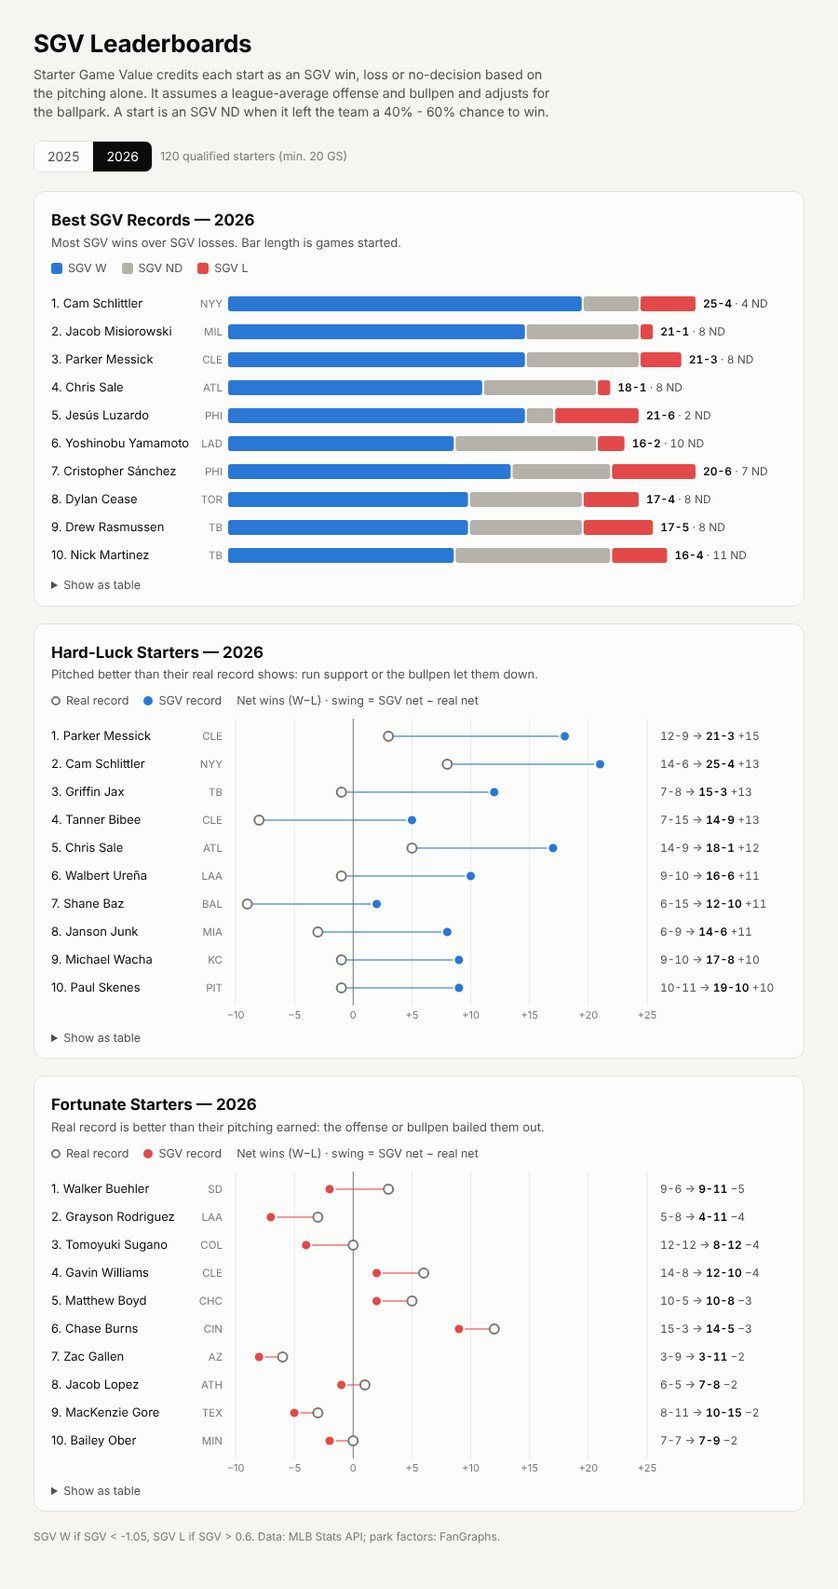
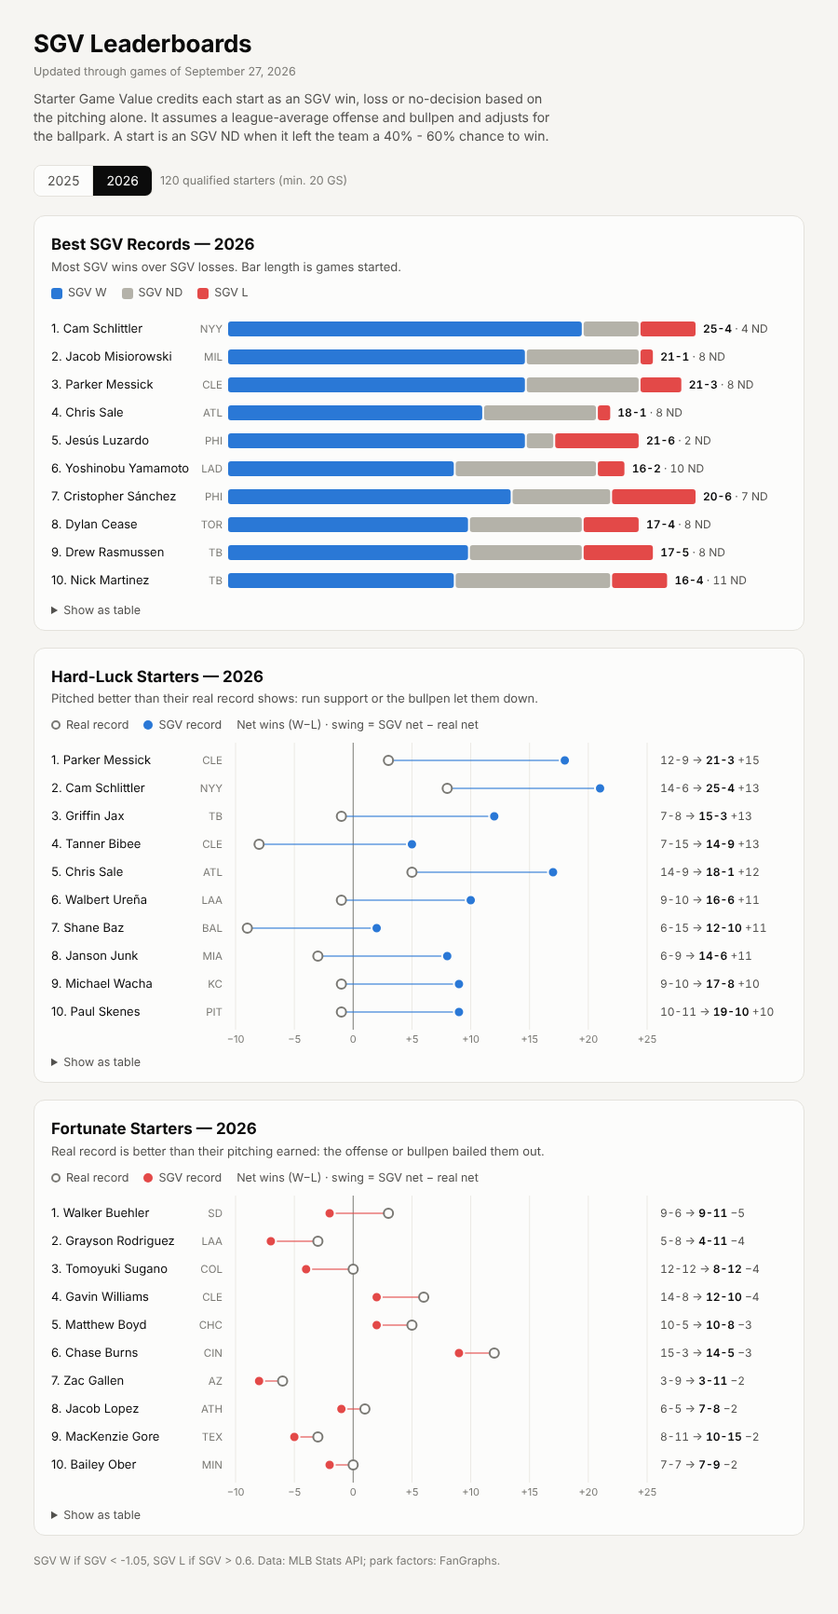
Make SGV live: daily GitHub workflow, Pages leaderboard, park factor carry-forward
- New season rows in park_factors.csv reuse the previous season's value for
  known ballparks (flagged "carried from ... - check FanGraphs"); only a
  brand-new ballpark blocks the run
- sgv.py exits with code 1 when park factors are missing, so a scheduled
  run shows as failed
- Box scores are cached trimmed to the fields SGV uses (~2 KB per game
  instead of ~180 KB; results unchanged)
- .github/workflows/sgv-daily.yml: every morning March-October, scores
  2025 to the current season, commits the results when there are new
  games and publishes the leaderboards on GitHub Pages
- Report shows the date of the last game included
- README: live leaderboard setup and yearly checklist

Claude-Session: https://claude.ai/code/session_01Pti2RQ9g86KiqQdCGobK9s

diff --git a/sgv_report.html b/sgv_report.html
@@ -29,7 +29,8 @@
 body { margin: 0; background: var(--surface-0); color: var(--text-primary);
        font: 14px/1.45 system-ui, -apple-system, "Segoe UI", Roboto, sans-serif; }
 main { max-width: 860px; margin: 0 auto; padding: 28px 16px 48px; }
-h1 { font-size: 26px; margin: 0 0 4px; letter-spacing: -0.01em; }
+h1 { font-size: 26px; margin: 0 0 2px; letter-spacing: -0.01em; }
+#through { margin: 0 0 10px; }
 .lede { color: var(--text-secondary); margin: 0 0 20px; max-width: 64ch; }
 .controls { display: flex; gap: 8px; align-items: center; margin-bottom: 20px; flex-wrap: wrap; }
 .seg { display: inline-flex; border: 1px solid var(--border); border-radius: 8px; overflow: hidden; }
@@ -76,6 +77,7 @@ footer { color: var(--text-muted); font-size: 12px; margin-top: 8px; }
 <body>
 <main>
   <h1>SGV Leaderboards</h1>
+  <p class="note" id="through"></p>
   <p class="lede">Starter Game Value credits each start as an SGV win, loss or no-decision based on the
   pitching alone. It assumes a league-average offense and bullpen and adjusts for the ballpark.
   A start is an SGV ND when it left the team a 40% - 60% chance to win.</p>
@@ -89,7 +91,7 @@ footer { color: var(--text-muted); font-size: 12px; margin-top: 8px; }
 <div id="tip" role="tooltip"></div>
 <script>
 const DATA = [{"season": 2025, "qualifier": 20, "qualified": 117, "best": [{"name": "Paul Skenes", "team": "PIT", "gs": 32, "sgv": [22, 5, 5], "act": [10, 10, 12], "avg": -1.66, "swing": 17}, {"name": "Cristopher S\u00e1nchez", "team": "PHI", "gs": 32, "sgv": [22, 5, 5], "act": [13, 5, 14], "avg": -1.42, "swing": 9}, {"name": "Garrett Crochet", "team": "BOS", "gs": 32, "sgv": [22, 5, 5], "act": [18, 5, 9], "avg": -1.35, "swing": 4}, {"name": "Hunter Brown", "team": "HOU", "gs": 31, "sgv": [21, 5, 5], "act": [12, 9, 10], "avg": -1.31, "swing": 13}, {"name": "Tarik Skubal", "team": "DET", "gs": 31, "sgv": [19, 6, 6], "act": [13, 6, 12], "avg": -1.57, "swing": 6}, {"name": "Nathan Eovaldi", "team": "TEX", "gs": 22, "sgv": [15, 3, 4], "act": [11, 3, 8], "avg": -1.69, "swing": 4}, {"name": "Yoshinobu Yamamoto", "team": "LAD", "gs": 30, "sgv": [18, 6, 6], "act": [12, 8, 10], "avg": -1.23, "swing": 8}, {"name": "Max Fried", "team": "NYY", "gs": 32, "sgv": [19, 8, 5], "act": [19, 5, 8], "avg": -1.07, "swing": -3}, {"name": "Logan Webb", "team": "SF", "gs": 34, "sgv": [18, 7, 9], "act": [15, 11, 8], "avg": -0.75, "swing": 7}, {"name": "Zack Wheeler", "team": "PHI", "gs": 24, "sgv": [15, 5, 4], "act": [10, 5, 9], "avg": -1.25, "swing": 5}], "hardLuck": [{"name": "Paul Skenes", "team": "PIT", "gs": 32, "sgv": [22, 5, 5], "act": [10, 10, 12], "avg": -1.66, "swing": 17}, {"name": "Hunter Brown", "team": "HOU", "gs": 31, "sgv": [21, 5, 5], "act": [12, 9, 10], "avg": -1.31, "swing": 13}, {"name": "MacKenzie Gore", "team": "WSH", "gs": 30, "sgv": [11, 8, 11], "act": [5, 15, 10], "avg": -0.14, "swing": 13}, {"name": "Mitch Keller", "team": "PIT", "gs": 32, "sgv": [11, 8, 13], "act": [6, 15, 11], "avg": -0.2, "swing": 12}, {"name": "Cristopher S\u00e1nchez", "team": "PHI", "gs": 32, "sgv": [22, 5, 5], "act": [13, 5, 14], "avg": -1.42, "swing": 9}, {"name": "Chad Patrick", "team": "MIL", "gs": 23, "sgv": [9, 5, 9], "act": [3, 8, 12], "avg": -0.45, "swing": 9}, {"name": "Michael Wacha", "team": "KC", "gs": 31, "sgv": [14, 8, 9], "act": [10, 13, 8], "avg": -0.41, "swing": 9}, {"name": "Kyle Freeland", "team": "COL", "gs": 31, "sgv": [8, 11, 12], "act": [5, 17, 9], "avg": 0.1, "swing": 9}, {"name": "Yoshinobu Yamamoto", "team": "LAD", "gs": 30, "sgv": [18, 6, 6], "act": [12, 8, 10], "avg": -1.23, "swing": 8}, {"name": "Noah Cameron", "team": "KC", "gs": 24, "sgv": [15, 5, 4], "act": [9, 7, 8], "avg": -0.96, "swing": 8}], "fortunate": [{"name": "Charlie Morton", "team": "BAL/DET/ATL", "gs": 27, "sgv": [6, 14, 7], "act": [9, 10, 8], "avg": 0.88, "swing": -7}, {"name": "Brandon Pfaadt", "team": "AZ", "gs": 33, "sgv": [9, 12, 12], "act": [13, 9, 11], "avg": 0.49, "swing": -7}, {"name": "Jake Irvin", "team": "WSH", "gs": 33, "sgv": [6, 16, 11], "act": [9, 13, 11], "avg": 0.76, "swing": -6}, {"name": "Sandy Alcantara", "team": "MIA", "gs": 31, "sgv": [9, 15, 7], "act": [11, 12, 8], "avg": 0.56, "swing": -5}, {"name": "Walker Buehler", "team": "BOS/PHI", "gs": 24, "sgv": [7, 10, 7], "act": [9, 7, 8], "avg": 0.3, "swing": -5}, {"name": "Clayton Kershaw", "team": "LAD", "gs": 22, "sgv": [10, 6, 6], "act": [11, 2, 9], "avg": -0.57, "swing": -5}, {"name": "Sonny Gray", "team": "STL", "gs": 32, "sgv": [12, 10, 10], "act": [14, 8, 10], "avg": -0.01, "swing": -4}, {"name": "Tanner Bibee", "team": "CLE", "gs": 31, "sgv": [10, 13, 8], "act": [12, 11, 8], "avg": -0.11, "swing": -4}, {"name": "Casey Mize", "team": "DET", "gs": 28, "sgv": [11, 7, 10], "act": [14, 6, 8], "avg": -0.36, "swing": -4}, {"name": "Zac Gallen", "team": "AZ", "gs": 33, "sgv": [12, 17, 4], "act": [13, 15, 5], "avg": 0.27, "swing": -3}]}, {"season": 2026, "qualifier": 20, "qualified": 120, "best": [{"name": "Cam Schlittler", "team": "NYY", "gs": 33, "sgv": [25, 4, 4], "act": [14, 6, 13], "avg": -1.62, "swing": 13}, {"name": "Jacob Misiorowski", "team": "MIL", "gs": 30, "sgv": [21, 1, 8], "act": [16, 5, 9], "avg": -1.69, "swing": 9}, {"name": "Parker Messick", "team": "CLE", "gs": 32, "sgv": [21, 3, 8], "act": [12, 9, 11], "avg": -1.23, "swing": 15}, {"name": "Chris Sale", "team": "ATL", "gs": 27, "sgv": [18, 1, 8], "act": [14, 9, 4], "avg": -1.55, "swing": 12}, {"name": "Jes\u00fas Luzardo", "team": "PHI", "gs": 29, "sgv": [21, 6, 2], "act": [14, 5, 10], "avg": -1.15, "swing": 6}, {"name": "Yoshinobu Yamamoto", "team": "LAD", "gs": 28, "sgv": [16, 2, 10], "act": [14, 9, 5], "avg": -1.36, "swing": 9}, {"name": "Cristopher S\u00e1nchez", "team": "PHI", "gs": 33, "sgv": [20, 6, 7], "act": [18, 7, 8], "avg": -1.13, "swing": 3}, {"name": "Dylan Cease", "team": "TOR", "gs": 29, "sgv": [17, 4, 8], "act": [11, 6, 12], "avg": -1.32, "swing": 8}, {"name": "Drew Rasmussen", "team": "TB", "gs": 30, "sgv": [17, 5, 8], "act": [16, 5, 9], "avg": -1.15, "swing": 1}, {"name": "Nick Martinez", "team": "TB", "gs": 31, "sgv": [16, 4, 11], "act": [15, 6, 10], "avg": -0.91, "swing": 3}], "hardLuck": [{"name": "Parker Messick", "team": "CLE", "gs": 32, "sgv": [21, 3, 8], "act": [12, 9, 11], "avg": -1.23, "swing": 15}, {"name": "Cam Schlittler", "team": "NYY", "gs": 33, "sgv": [25, 4, 4], "act": [14, 6, 13], "avg": -1.62, "swing": 13}, {"name": "Griffin Jax", "team": "TB", "gs": 23, "sgv": [15, 3, 5], "act": [7, 8, 8], "avg": -0.67, "swing": 13}, {"name": "Tanner Bibee", "team": "CLE", "gs": 33, "sgv": [14, 9, 10], "act": [7, 15, 11], "avg": -0.06, "swing": 13}, {"name": "Chris Sale", "team": "ATL", "gs": 27, "sgv": [18, 1, 8], "act": [14, 9, 4], "avg": -1.55, "swing": 12}, {"name": "Walbert Ure\u00f1a", "team": "LAA", "gs": 27, "sgv": [16, 6, 5], "act": [9, 10, 8], "avg": -0.86, "swing": 11}, {"name": "Shane Baz", "team": "BAL", "gs": 31, "sgv": [12, 10, 9], "act": [6, 15, 10], "avg": -0.18, "swing": 11}, {"name": "Janson Junk", "team": "MIA", "gs": 25, "sgv": [14, 6, 5], "act": [6, 9, 10], "avg": -0.11, "swing": 11}, {"name": "Michael Wacha", "team": "KC", "gs": 32, "sgv": [17, 8, 7], "act": [9, 10, 13], "avg": -0.87, "swing": 10}, {"name": "Paul Skenes", "team": "PIT", "gs": 32, "sgv": [19, 10, 3], "act": [10, 11, 11], "avg": -0.45, "swing": 10}], "fortunate": [{"name": "Walker Buehler", "team": "SD", "gs": 32, "sgv": [9, 11, 12], "act": [9, 6, 17], "avg": 0.2, "swing": -5}, {"name": "Grayson Rodriguez", "team": "LAA", "gs": 20, "sgv": [4, 11, 5], "act": [5, 8, 7], "avg": 0.92, "swing": -4}, {"name": "Tomoyuki Sugano", "team": "COL", "gs": 29, "sgv": [8, 12, 9], "act": [12, 12, 5], "avg": 0.28, "swing": -4}, {"name": "Gavin Williams", "team": "CLE", "gs": 32, "sgv": [12, 10, 10], "act": [14, 8, 10], "avg": -0.43, "swing": -4}, {"name": "Matthew Boyd", "team": "CHC", "gs": 22, "sgv": [10, 8, 4], "act": [10, 5, 7], "avg": -0.28, "swing": -3}, {"name": "Chase Burns", "team": "CIN", "gs": 29, "sgv": [14, 5, 10], "act": [15, 3, 11], "avg": -0.95, "swing": -3}, {"name": "Zac Gallen", "team": "AZ", "gs": 20, "sgv": [3, 11, 6], "act": [3, 9, 8], "avg": 1.03, "swing": -2}, {"name": "Jacob Lopez", "team": "ATH", "gs": 24, "sgv": [7, 8, 9], "act": [6, 5, 13], "avg": 0.37, "swing": -2}, {"name": "MacKenzie Gore", "team": "TEX", "gs": 34, "sgv": [10, 15, 9], "act": [8, 11, 15], "avg": 0.1, "swing": -2}, {"name": "Bailey Ober", "team": "MIN", "gs": 24, "sgv": [7, 9, 8], "act": [7, 7, 10], "avg": 0.08, "swing": -2}]}];
-const META = {"wCut": -1.05, "lCut": 0.6, "band": "40% - 60%"};
+const META = {"wCut": -1.05, "lCut": 0.6, "band": "40% - 60%", "through": "2026-09-27"};
 const NS = "http://www.w3.org/2000/svg";
 const ROW = 30, TOP = 8;
 let W = 760, LABEL = 190, NARROW = false;   // set from the container width in render()
@@ -270,6 +272,9 @@ DATA.forEach((d) => {
   b.addEventListener("click", () => render(d.season));
   seg.append(b);
 });
+document.getElementById("through").textContent = "Updated through games of " +
+  new Date(META.through + "T12:00:00").toLocaleDateString("en-US",
+    { month: "long", day: "numeric", year: "numeric" });
 document.getElementById("foot").textContent =
   `SGV W if SGV < ${META.wCut}, SGV L if SGV > ${META.lCut}. ` +
   "Data: MLB Stats API; park factors: FanGraphs.";

diff --git a/sgv.py b/sgv.py
@@ -37,6 +37,7 @@ Outputs: sgv_records.xlsx (records, every start, model) and sgv_report.html
 import argparse
 import csv
 import json
+import sys
 import time
 import webbrowser
 from collections import defaultdict
@@ -109,12 +110,41 @@ def fetch_final_games(season):
     return sorted(games.values(), key=lambda g: (g["date"], g["gamePk"]))
 
 
+PITCHING_FIELDS = ("outs", "inningsPitched", "earnedRuns", "runs", "gamesStarted", "wins", "losses")
+
+
+def slim_boxscore(box):
+    """Keep only what SGV uses (pitcher lines and runs): ~2 KB instead of ~180 KB per game."""
+    teams = {}
+    for side in ("home", "away"):
+        t = box["teams"][side]
+        players = {}
+        for pid in t["pitchers"]:
+            player = t["players"][f"ID{pid}"]
+            pitching = player.get("stats", {}).get("pitching", {})
+            players[f"ID{pid}"] = {
+                "person": {"id": pid, "fullName": player["person"]["fullName"]},
+                "stats": {"pitching": {k: pitching[k] for k in PITCHING_FIELDS if k in pitching}},
+            }
+        teams[side] = {
+            "team": {"id": t["team"]["id"]},
+            "teamStats": {"batting": {"runs": t["teamStats"]["batting"]["runs"]}},
+            "pitchers": t["pitchers"],
+            "players": players,
+        }
+    return {"teams": teams}
+
+
 def fetch_boxscore(game, refresh=False):
     """Box score for a finished game, read from the cache when possible."""
     path = CACHE_DIR / f"{game['gamePk']}.json"
     if path.exists() and not refresh:
-        return json.loads(path.read_text())
-    box = get_json(f"game/{game['gamePk']}/boxscore")
+        box = json.loads(path.read_text())
+        if "info" not in box:          # already slim
+            return box
+    else:
+        box = get_json(f"game/{game['gamePk']}/boxscore")
+    box = slim_boxscore(box)
     path.write_text(json.dumps(box))
     return box
 
@@ -262,27 +292,51 @@ def load_park_factors():
                     "home_team": row.get("home_team", ""),
                     "games": row.get("games", ""),
                     "park_factor": float(value) if value else None,
+                    "note": row.get("note") or "",
                 }
     return pf
 
 
+def carried_value(pf, season, venue):
+    """Most recent earlier season's park factor for the same ballpark, if any."""
+    earlier = [(s, e["park_factor"]) for (s, v), e in pf.items()
+               if v == venue and s < season and e["park_factor"] is not None]
+    return max(earlier) if earlier else (None, None)
+
+
 def update_park_factor_file(pf, season, starts):
-    """Add any new (season, venue) rows so the user knows what to fill in."""
+    """Add any new (season, venue) rows to park_factors.csv.
+
+    A ballpark already used in an earlier season gets that season's value,
+    flagged in the note column so it can be checked against FanGraphs; only a
+    brand-new ballpark is left blank for the user to fill in.
+    """
     usage = defaultdict(lambda: [set(), set()])
     for s in starts:
         usage[s["venue"]][0].add(s["home_team"])
         usage[s["venue"]][1].add(s["gamePk"])
+    carried = []
     for venue, (teams, game_ids) in usage.items():
-        entry = pf.setdefault((season, venue), {"park_factor": None})
+        entry = pf.setdefault((season, venue), {"park_factor": None, "note": ""})
         entry["home_team"] = "/".join(sorted(teams))
         entry["games"] = len(game_ids)
+        if entry["park_factor"] is None:
+            from_season, value = carried_value(pf, season, venue)
+            if value is not None:
+                entry["park_factor"] = value
+                entry["note"] = f"carried from {from_season} - check FanGraphs"
+                carried.append(venue)
+    if carried:
+        print(f"[{season}] park factors carried from the previous season for "
+              f"{len(carried)} ballparks (update them from FanGraphs when available)")
 
     with PARK_FACTORS_FILE.open("w", newline="", encoding="utf-8") as f:
         w = csv.writer(f)
-        w.writerow(["season", "venue", "home_team", "games", "park_factor"])
+        w.writerow(["season", "venue", "home_team", "games", "park_factor", "note"])
         for (s, venue), e in sorted(pf.items()):
             value = "" if e["park_factor"] is None else e["park_factor"]
-            w.writerow([s, venue, e.get("home_team", ""), e.get("games", ""), value])
+            w.writerow([s, venue, e.get("home_team", ""), e.get("games", ""), value,
+                        e.get("note", "")])
 
 
 # --------------------------------------------------------------------------
@@ -427,10 +481,10 @@ def main():
 
     open_report = not args.no_open
     while True:
-        run(args.seasons, args.nd_band, args.refresh_days, open_report)
+        ok = run(args.seasons, args.nd_band, args.refresh_days, open_report)
         open_report = False   # in --watch mode, open the browser only once
         if not args.watch:
-            break
+            sys.exit(0 if ok else 1)   # non-zero so a scheduled run shows as failed
         print(f"Next update in {args.watch} min (Ctrl+C to stop)")
         time.sleep(args.watch * 60)
 

diff --git a/test_sgv.py b/test_sgv.py
@@ -76,9 +76,15 @@ print(sgv.PARK_FACTORS_FILE.read_text())
 
 pf = {"Coors Field": "1.10", "Petco Park": "0,95", "Dodger Stadium": "0.95",
       "Wrigley Field": "1.00", "Tokyo Dome": "1.00"}
-lines = sgv.PARK_FACTORS_FILE.read_text().splitlines()
-out = [lines[0].replace(",", ";")] + [(l + pf[l.split(",")[1]].replace(".", ",")).replace(",", ";", 4) for l in lines[1:]]
-sgv.PARK_FACTORS_FILE.write_text("\n".join(out) + "\n")
+# save as a French-locale Excel would: ";" separators and decimal commas
+import csv
+rows = list(csv.DictReader(sgv.PARK_FACTORS_FILE.open()))
+with sgv.PARK_FACTORS_FILE.open("w", newline="") as f:
+    w = csv.DictWriter(f, fieldnames=rows[0].keys(), delimiter=";")
+    w.writeheader()
+    for r in rows:
+        r["park_factor"] = pf[r["venue"]].replace(".", ",")
+        w.writerow(r)
 
 assert sgv.run([2025, 2026], 0.40, 3) is True
 pd.set_option("display.width", 250); pd.set_option("display.max_columns", 30)
@@ -115,5 +121,27 @@ assert sgv.sgv_decision(w_cut - 0.01, w_cut, l_cut) == "W"
 assert sgv.sgv_decision(l_cut + 0.01, w_cut, l_cut) == "L"
 assert sgv.sgv_decision((w_cut + l_cut) / 2, w_cut, l_cut) == "ND"
 assert "SGV Leaderboards" in sgv.REPORT_FILE.read_text()
+# slim cache: trimming a box score keeps everything SGV needs
+full = fake_get_json("game/1/boxscore")
+full["info"] = ["lots", "of", "unused", "data"]
+full["teams"]["home"]["players"]["ID10"]["stats"]["pitching"]["strikeOuts"] = 9
+full["teams"]["home"]["players"]["ID10"]["stats"]["batting"] = {"hits": 1}
+slim = sgv.slim_boxscore(full)
+assert "info" not in slim
+assert slim["teams"]["home"]["players"]["ID10"]["stats"] == {"pitching": {
+    "inningsPitched": "7.0", "earnedRuns": 4, "runs": 4, "gamesStarted": 1, "wins": 1, "losses": 0}}
+assert sgv.side_lines(slim["teams"]["home"]) == sgv.side_lines(full["teams"]["home"])
+
+# park factors carry forward to a new season for known ballparks only
+pf = sgv.load_park_factors()
+new_season = [{"venue": "Coors Field", "home_team": "COL", "gamePk": 99},
+              {"venue": "Brand New Park", "home_team": "TB", "gamePk": 98}]
+sgv.update_park_factor_file(pf, 2027, new_season)
+pf = sgv.load_park_factors()
+assert pf[(2027, "Coors Field")]["park_factor"] == 1.10
+assert pf[(2027, "Coors Field")]["note"] == "carried from 2025 - check FanGraphs"
+assert pf[(2027, "Brand New Park")]["park_factor"] is None
+assert pf[(2025, "Coors Field")]["note"] == ""
+
 shutil.rmtree(tmp)
 print("ALL CHECKS PASSED")

diff --git a/sgv_report.py b/sgv_report.py
@@ -55,6 +55,7 @@ def write_report(df, league_rows, calibration, path):
         "wCut": calibration["SGV W if SGV below"],
         "lCut": calibration["SGV L if SGV above"],
         "band": calibration["ND band (team win probability)"],
+        "through": str(df["date"].max()),   # last game in the data, not the run time
     }
     page = TEMPLATE.replace("__DATA__", json.dumps(data)).replace("__META__", json.dumps(meta))
     page = page.replace("__BAND__", html.escape(meta["band"]))
@@ -92,7 +93,8 @@ TEMPLATE = r"""<!doctype html>
 body { margin: 0; background: var(--surface-0); color: var(--text-primary);
        font: 14px/1.45 system-ui, -apple-system, "Segoe UI", Roboto, sans-serif; }
 main { max-width: 860px; margin: 0 auto; padding: 28px 16px 48px; }
-h1 { font-size: 26px; margin: 0 0 4px; letter-spacing: -0.01em; }
+h1 { font-size: 26px; margin: 0 0 2px; letter-spacing: -0.01em; }
+#through { margin: 0 0 10px; }
 .lede { color: var(--text-secondary); margin: 0 0 20px; max-width: 64ch; }
 .controls { display: flex; gap: 8px; align-items: center; margin-bottom: 20px; flex-wrap: wrap; }
 .seg { display: inline-flex; border: 1px solid var(--border); border-radius: 8px; overflow: hidden; }
@@ -139,6 +141,7 @@ footer { color: var(--text-muted); font-size: 12px; margin-top: 8px; }
 <body>
 <main>
   <h1>SGV Leaderboards</h1>
+  <p class="note" id="through"></p>
   <p class="lede">Starter Game Value credits each start as an SGV win, loss or no-decision based on the
   pitching alone. It assumes a league-average offense and bullpen and adjusts for the ballpark.
   A start is an SGV ND when it left the team a __BAND__ chance to win.</p>
@@ -333,6 +336,9 @@ DATA.forEach((d) => {
   b.addEventListener("click", () => render(d.season));
   seg.append(b);
 });
+document.getElementById("through").textContent = "Updated through games of " +
+  new Date(META.through + "T12:00:00").toLocaleDateString("en-US",
+    { month: "long", day: "numeric", year: "numeric" });
 document.getElementById("foot").textContent =
   `SGV W if SGV < ${META.wCut}, SGV L if SGV > ${META.lCut}. ` +
   "Data: MLB Stats API; park factors: FanGraphs.";

diff --git a/README.md b/README.md
@@ -6,6 +6,8 @@ A starter's win-loss record depends on things the starter doesn't control. Run s
 
 SGV asks a simpler question: **did this start give the team a realistic chance to win?** Each start gets an **SGV W**, **SGV L** or **SGV ND**, assuming a league-average offense, a league-average bullpen from the moment the starter leaves, and the run environment of that ballpark. At the end of the season every starter has an SGV record (for example 22-5, 5 ND) to compare with the real one.
 
+**Live leaderboard (updated daily during the season): https://luca-pfi.github.io/Advanced-Sabermetrics-Development-SGV/**
+
 ![SGV leaderboards](docs/leaderboards.png)
 
 ---
@@ -121,24 +123,51 @@ The *swing* is (SGV W − SGV L) − (real W − real L). Hover a row for the fu
 
 ### Live use during a season
 
-Box scores of finished games are saved in `cache/`, so later runs only download new games and take a few seconds. During a season the league averages are season-to-date. Include the previous season so the ND thresholds stay stable from opening day:
+Box scores of finished games are saved in `cache/` (about 2 KB per game), so later runs only download new games and take a few seconds. During a season the league averages are season-to-date. Include the previous seasons so the ND thresholds stay stable from opening day:
 
 ```bash
-python sgv.py --seasons 2026 2027 --watch 60
+python sgv.py --seasons 2025 2026 2027 --watch 60
 ```
+
+The simplest way to run it live is the daily GitHub workflow below; it needs no computer of your own.
+
+---
+
+## Live leaderboard (GitHub Actions + GitHub Pages)
+
+`.github/workflows/sgv-daily.yml` updates SGV automatically **every morning from March to October** at 08:47 UTC, after the previous night's games are final:
+
+1. scores every regular-season start from 2025 to the current season (`--seasons 2025 … current year`);
+2. commits the refreshed `sgv_records.xlsx`, `sgv_report.html` and `park_factors.csv`, but only when there were new games;
+3. publishes the leaderboards on GitHub Pages at **https://luca-pfi.github.io/Advanced-Sabermetrics-Development-SGV/**, with a download link for the Excel file at `…/sgv_records.xlsx`.
+
+The page shows "Updated through games of …" with the date of the last game included.
+
+### One-time setup
+
+1. In the repository on GitHub, open **Settings → Pages** and set **Source** to **GitHub Actions**.
+2. Open the **Actions** tab, choose **Daily SGV update** and click **Run workflow** to run it once by hand. The first run downloads every box score (a few minutes); after that each run takes about a minute.
+
+### Each season
+
+- **March, before opening day:** check `park_factors.csv`. New-season rows for known ballparks are filled in automatically with the previous season's value and marked `carried from … - check FanGraphs` in the `note` column. Update the values from FanGraphs when they're published and clear the note. A **brand-new ballpark** is left blank, and the run **fails** until you fill it in. GitHub emails you about the failed run, and the error lists the missing ballparks.
+- **Re-enable the schedule if needed:** GitHub pauses scheduled workflows in a repository with no activity for 60 days, which can happen over the off-season. If the Actions tab shows the workflow as disabled, click **Enable workflow**.
+- **During the season:** nothing to do. Official scoring changes from the last 3 days are picked up automatically.
 
 ### Park factors
 
 `park_factors.csv` has one row per season and ballpark:
 
 ```
-season,venue,home_team,games,park_factor
-2025,Coors Field,COL,81,1.12
+season,venue,home_team,games,park_factor,note
+2025,Coors Field,COL,81,1.12,
+2027,Coors Field,COL,81,1.12,carried from 2026 - check FanGraphs
 ```
 
 - Values come from the [FanGraphs Guts page](https://www.fangraphs.com/guts.aspx?type=pf) ("Basic (5yr)" column, divided by 100).
 - Neutral sites (Tokyo Dome, Mexico City, Field of Dreams, etc.) aren't covered by FanGraphs and are set to 1.00. Change them if you have better values.
-- When a new season or ballpark shows up, the script adds an empty row and tells you which values to fill in before it continues.
+- When a new season starts, each ballpark already used in an earlier season gets that season's value automatically, with `carried from <season> - check FanGraphs` in the `note` column. Update the value when FanGraphs publishes the new season and clear the note.
+- A brand-new ballpark is added as an empty row; the script lists it and stops until you fill it in.
 - Editing the file in Excel works, including European formats (`;` separators and decimal commas).
 
 ### Tests
@@ -147,7 +176,7 @@ season,venue,home_team,games,park_factor
 python test_sgv.py
 ```
 
-The tests run the whole pipeline offline on a small simulated season, without contacting the API. They check the formula against hand calculations, extra-inning starts, openers, postponed and suspended games, neutral sites, the curve fit and its ND thresholds, and that GS = W + L + ND for every pitcher.
+The tests run the whole pipeline offline on a small simulated season, without contacting the API. They check the formula against hand calculations, extra-inning starts, openers, postponed and suspended games, neutral sites, the curve fit and its ND thresholds, park factors carried to a new season, the trimmed box-score cache, and that GS = W + L + ND for every pitcher.
 
 ---
 
@@ -165,4 +194,5 @@ The tests run the whole pipeline offline on a small simulated season, without co
 | `sgv_report.py` | HTML leaderboards |
 | `park_factors.csv` | Park factors per season and ballpark |
 | `test_sgv.py` | Offline tests |
-| `sgv_records.xlsx`, `sgv_report.html` | Results for 2025 and 2026 |
+| `.github/workflows/sgv-daily.yml` | Daily update and GitHub Pages publication |
+| `sgv_records.xlsx`, `sgv_report.html` | Latest results (updated daily during the season) |
